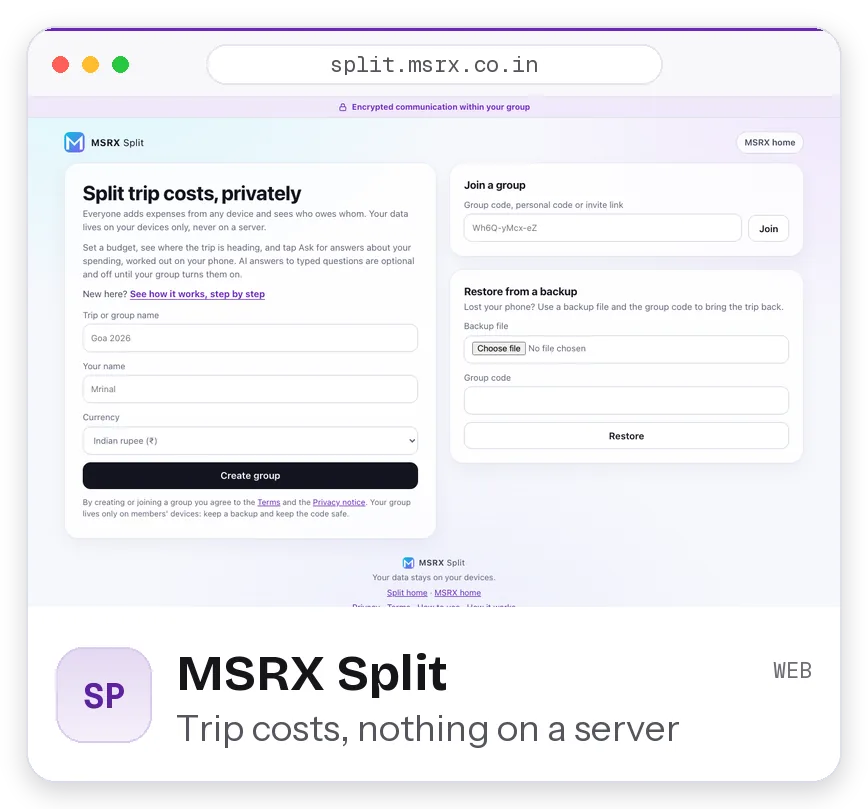
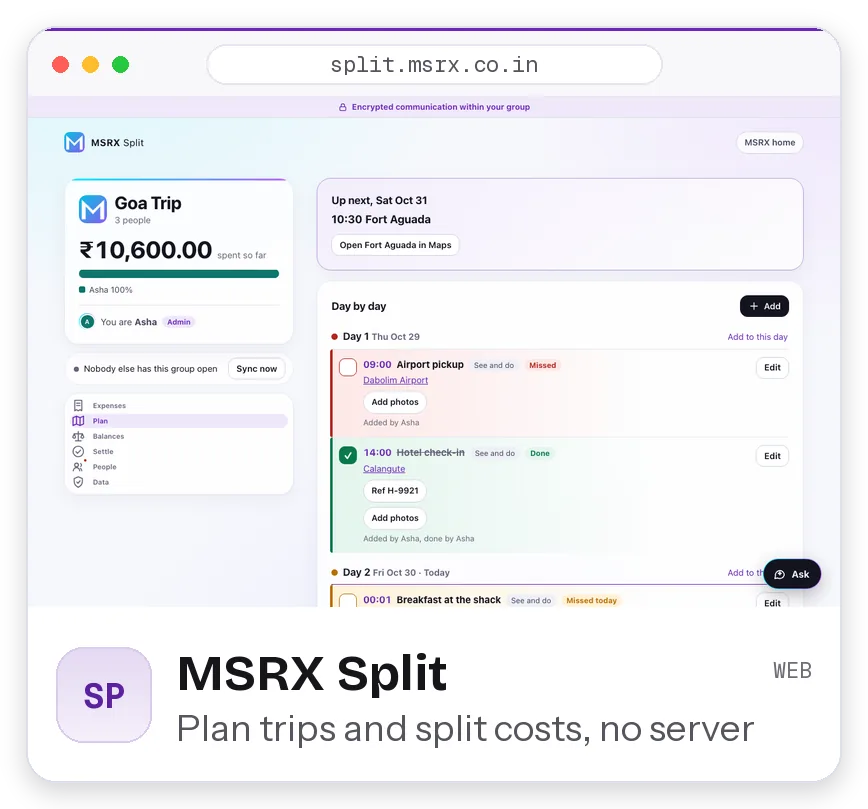
Profile: new MSRX Split card showing the trip plan

diff --git a/tools/build_profile.py b/tools/build_profile.py
@@ -184,7 +184,7 @@ WEB = [
     ("work", "easy-peasy-gantt", "Easy-Peasy Gantt", "EG", "#4F46E5", "gantt.msrx.co.in", "Presentation-ready Gantt charts", "gantt.png"),
     ("work", "security", "MSRX Security", "SC", "#0F766E", "security.msrx.co.in", "Website security scored out of 10", "security.png"),
     ("everyday", "tools", "MSRX Tools", "MT", "#0F766E", "tools.msrx.co.in", "238 tools, no file ever uploaded", "tools.png"),
-    ("everyday", "split", "MSRX Split", "SP", "#6A28B8", "split.msrx.co.in", "Trip costs, nothing on a server", "split.png"),
+    ("everyday", "split", "MSRX Split", "SP", "#6A28B8", "split.msrx.co.in", "Plan trips and split costs, no server", "split.png"),
     ("everyday", "gluconexa", "MSRX GlucoNexa", "GN", "#0A66C2", "gluconexa.msrx.co.in", "A private, offline diabetes log", "gluconexa-pane.jpg"),
     ("everyday", "flight", "MSRX Flights", "FL", "#0A6E70", "flight.msrx.co.in", "Cheapest flights, day and hour", "flight.png"),
     ("everyday", "diwali", "MSRX Diwali Cards", "DW", "#B4440A", "diwali.msrx.co.in", "63 Diwali cards in 13 languages", "diwali.png"),
